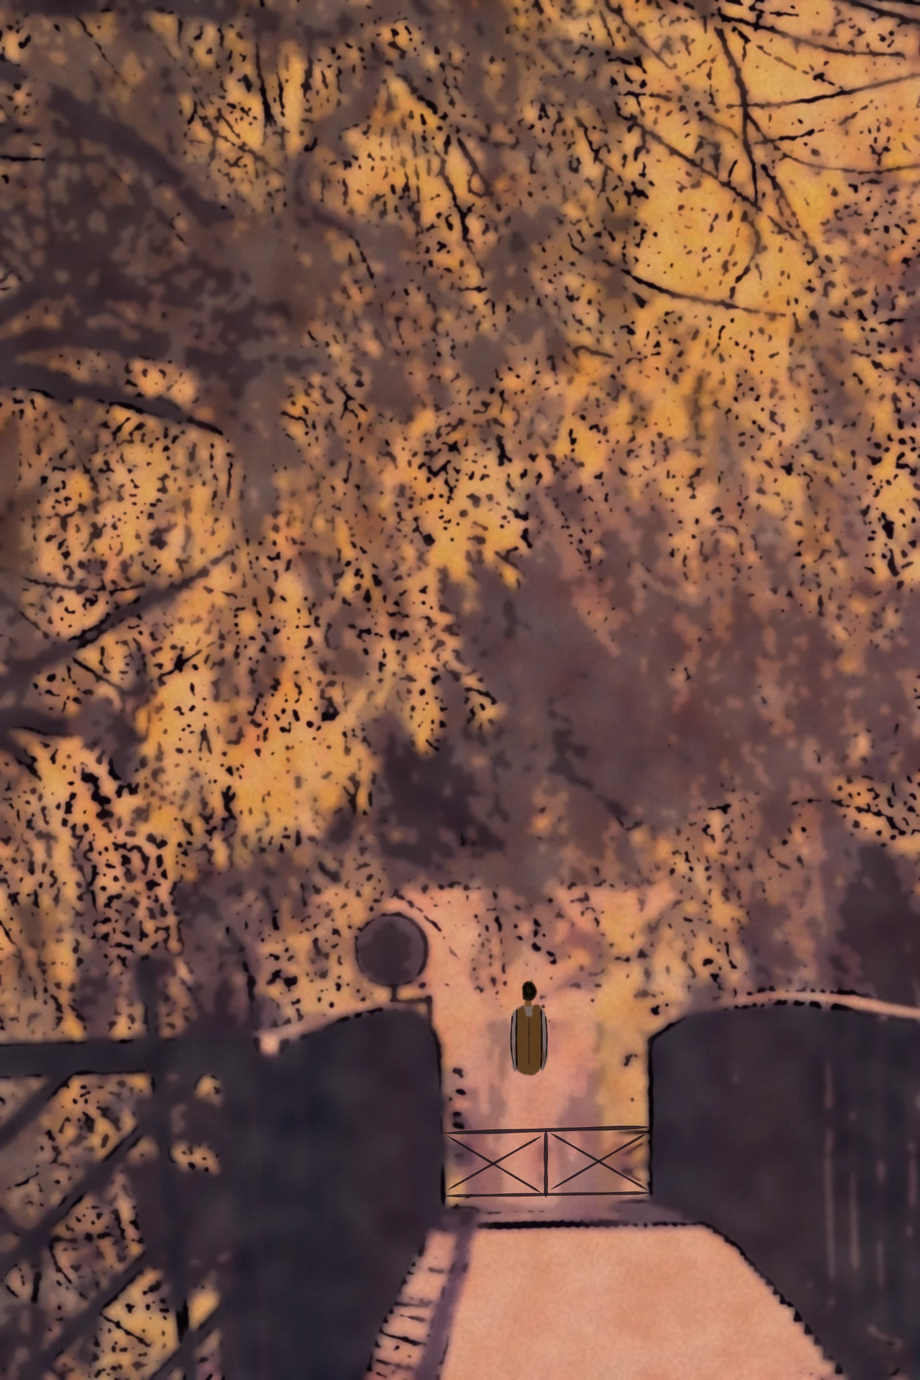
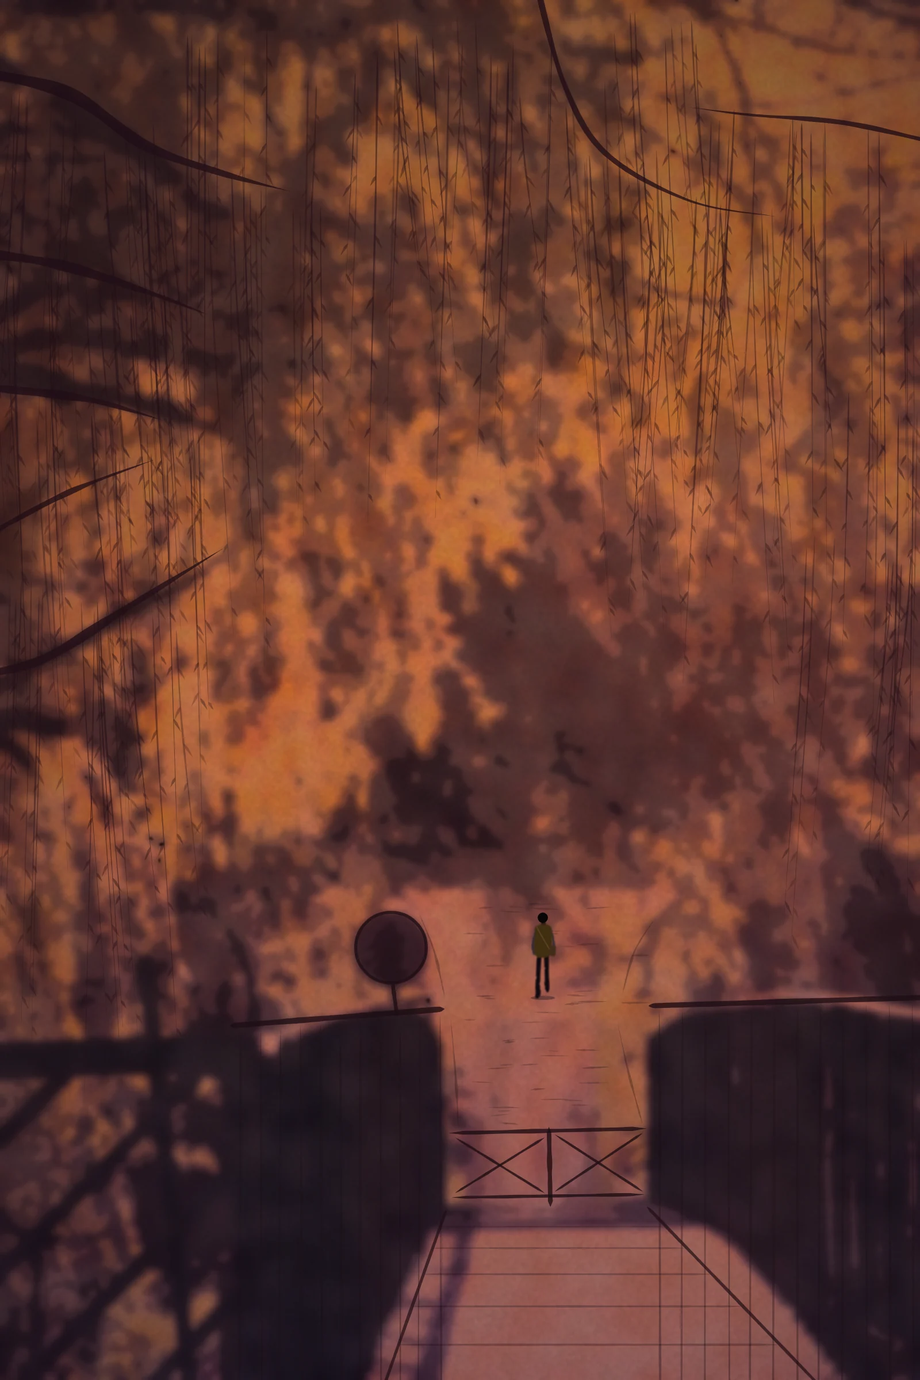
Darshan jouable : décors du départ et des toiles, versions finales
Le plan « loin » du départ passe en lavis du soir sans traits, la nuit au
bord du fleuve garde un papier à peine grené, les toiles sont retouchées.

Claude-Session: https://claude.ai/code/session_01TCXcaRJLaw3PQyFLimBr36

diff --git a/outils/darshan/art.py b/outils/darshan/art.py
@@ -1735,7 +1735,7 @@ def toiles(calque=None, graine=91):
            f'<rect width="{W}" height="{H}" fill="#eee6d6" filter="url(#papier)" opacity="0.4"/>']
     for nom, boite in TOILES:
         out.append(toile_de_lin(*boite, rng))
-        out.append(sujet(nom, boite, rng))
+        out.append(f'<g clip-path="url(#toile-{nom})">{sujet(nom, boite, rng)}</g>')
     x0, y0, x1, y1 = TOILE_COUPLE
     out.append(toile_de_lin(x0, y0, x1, y1, rng))
     out.append(f'<g clip-path="url(#toile-couple)">{couple(rng)}</g>')
@@ -1753,7 +1753,9 @@ def toiles(calque=None, graine=91):
     out.append(f'<path d="{trait([(600, 984), (599, 1000 - 72)], 2.6, rng, 0.02, 0.05, 0.05)}" fill="#6a3a1a"/>')
     out.append(f'<circle cx="599" cy="928" r="3.2" fill="#ff7a2a"/>')
     out.append(f'<rect width="{W}" height="{H}" fill="url(#lumiere-toiles)"/>')
-    defs = DEFS_AQUARELLE + FILTRE_ENCRE + f'<clipPath id="toile-couple"><rect x="{x0}" y="{y0}" width="{x1 - x0}" height="{y1 - y0}"/></clipPath>' + """
+    defs = DEFS_AQUARELLE + FILTRE_ENCRE + "".join(
+        f'<clipPath id="toile-{nom}"><rect x="{bx0}" y="{by0}" width="{bx1 - bx0}" height="{by1 - by0}"/></clipPath>'
+        for nom, (bx0, by0, bx1, by1) in TOILES + [("couple", TOILE_COUPLE)]) + """
 <linearGradient id="mur-toiles" x1="0" y1="0" x2="1" y2="0.3">
   <stop offset="0" stop-color="#f7f1e4"/><stop offset="1" stop-color="#ddd3c0"/>
 </linearGradient>
@@ -1894,86 +1896,236 @@ def placard(etat="entrouverte", graine=97):
 
 # ---------------------------------------------------------------- 7.6 : le départ de Darshan
 
-def silhouette_de_dos(x, y, s, rng, encre=ENCRE, gilet="#b88a2e", chemise="#e8e0cc", lueur=None, marche=False):
-    """Darshan de dos, une silhouette d'encre sans visage : les boucles brunes, la chemise de lin
-    blanc, le gilet de toile sans manches ; (x, y) : le haut de la tête ; s : l'échelle (1 : 1 000
-    unités de la tête à la taille) ; lueur : la couleur du feu qui l'éclaire d'en bas, à gauche."""
-    def P(dx, dy):
-        return (x + dx * s, y + dy * s)
+def darshan_proche(rng, cx=800, y0=150, k=1.1):
+    """Darshan debout, de dos, tout près : les boucles brunes, la nuque, le col de la chemise de lin
+    blanc, le gilet de toile moutarde, les manches ; coupé par le cadre à droite et en bas. Une
+    silhouette d'encre, sans visage : chaque forme a sa couleur, puis la lumière la multiplie, celle
+    du feu, hors champ en bas à gauche, qui monte sur le gilet, et la nuit bleue ailleurs ; un
+    liseré de feu sur les contours de gauche. (cx, y0) : le haut de la tête ; k : l'échelle."""
+    def P(x, y):
+        return (cx + x * k, y0 + (y - 190) * k)
 
-    def forme(pts, couleur, op=1.0, filtre="aquarelle-douce"):
-        return lavis(poly(catmull_rom([P(*q) for q in pts] + [P(*pts[0])], 6)), couleur, op, filtre)
-
-    out = []
-    # les bras (les manches de la chemise), puis le dos : le gilet par-dessus la chemise
-    for c in (-1, 1):
-        bras = [(c * 150, 250), (c * 205, 330), (c * 222, 560), (c * 214, 800), (c * 176, 1000),
-                (c * 140, 1000), (c * 150, 800), (c * 150, 560), (c * 120, 340)]
-        if marche:
-            bras = [(bx + c * 10 * (by > 600), by) for bx, by in bras]
-        out.append(forme(bras, chemise, 1.0))
-        out.append(f'<path d="{trait([P(c * 205, 330), P(c * 222, 560), P(c * 214, 800), P(c * 176, 1000)], 5 * s + 1.5, rng, 0.05, 0.3, 0.3)}" fill="{encre}" opacity="0.75"/>')
-    dos = [(-150, 250), (-60, 200), (60, 200), (150, 250), (158, 600), (150, 1000), (-150, 1000), (-158, 600)]
-    out.append(forme(dos, chemise, 1.0))
-    gilet_ = [(-148, 262), (-52, 212), (-40, 330), (40, 330), (52, 212), (148, 262), (150, 980), (-150, 980)]
-    out.append(forme(gilet_, gilet, 1.0))
-    out.append(f'<path d="{trait([P(0, 330), P(2, 620), P(0, 960)], 3 * s + 1, rng, 0.1, 0.1, 0.3)}" fill="{encre}" opacity="0.5"/>')
-    for pts in (((-150, 250), (-158, 600), (-150, 1000)), ((150, 250), (158, 600), (150, 1000))):
-        out.append(f'<path d="{trait([P(*q) for q in pts], 6 * s + 1.5, rng, 0.05, 0.1, 0.3)}" fill="{encre}" opacity="0.85"/>')
-    # le cou, le col, la tête : des boucles brunes, jamais de visage
-    out.append(forme([(-34, 120), (34, 120), (40, 214), (-40, 214)], "#8a5a3a", 1.0))
-    out.append(forme([(-62, 200), (0, 232), (62, 200), (40, 250), (-40, 250)], chemise, 1.0))
-    out.append(forme([(-86, 60), (-80, -30), (-40, -86), (30, -90), (78, -40), (90, 40), (70, 120), (0, 150), (-66, 124)], "#2a1a12", 1.0))
-    for _ in range(int(40 + 30 * s)):
+    def forme(pts, n=6):
+        return poly(catmull_rom([P(*q) for q in pts] + [P(*pts[0])], n))
+    tete = [(-115, 330), (-108, 262), (-70, 212), (0, 192), (72, 210), (112, 258), (120, 330), (112, 398), (88, 446),
+            (42, 468), (0, 472), (-44, 468), (-88, 446), (-110, 398)]
+    cou = [(-80, 420), (72, 420), (82, 470), (92, 560), (-92, 560), (-82, 470)]
+    col = [(-88, 505), (-30, 522), (30, 524), (86, 505), (96, 542), (30, 560), (-30, 560), (-96, 542)]
+    chemise = [(-90, 520), (-170, 545), (-250, 570), (-300, 588), (-334, 618), (-352, 680), (-360, 780), (-358, 900),
+               (-352, 1050), (-354, 1250), (-362, 1500), (-368, 1900), (368, 1900), (362, 1500), (354, 1250), (352, 1050),
+               (358, 900), (360, 780), (352, 680), (334, 618), (300, 588), (250, 570), (170, 545), (90, 520)]
+    gilet = [(-86, 550), (0, 560), (86, 550), (150, 558), (212, 576), (226, 650), (230, 760), (262, 812), (268, 1900),
+             (-268, 1900), (-262, 812), (-230, 760), (-226, 650), (-212, 576), (-150, 558)]
+    oreilles = [[(-108, 318), (-130, 334), (-134, 366), (-120, 392), (-104, 388)],
+                [(114, 318), (136, 334), (140, 366), (126, 392), (110, 388)]]
+    silhouette = "".join(f'<path d="{forme(f)}"/>' for f in (chemise, cou, tete))
+    out = [f'<clipPath id="darshan-proche">{silhouette}</clipPath>', '<g style="isolation:isolate">',
+           lavis(forme(chemise), "#e6ddc8", 1.0, "aquarelle-douce"),
+           lavis(forme(gilet), "#c8962a", 1.0, "aquarelle"),
+           lavis(forme(cou), "#7a4a30", 1.0, "aquarelle-douce")]
+    out += [lavis(forme(o, 4), "#7a4a30", 1.0, "aquarelle-douce") for o in oreilles]
+    out.append(lavis(forme(col), "#f2ecdc", 1.0, "aquarelle-douce"))
+    # les plis de la chemise et du gilet : l'aisselle, la manche, la couture du dos, la martingale
+    for pts, l, op in ((((-262, 812), (-268, 1100), (-270, 1400)), 4, 0.5), (((262, 812), (268, 1100), (270, 1400)), 4, 0.5),
+                       (((-336, 640), (-318, 720), (-300, 800)), 3, 0.35), (((336, 640), (318, 720), (300, 800)), 3, 0.35),
+                       (((-350, 900), (-330, 1000), (-322, 1150)), 2.4, 0.3), (((340, 920), (322, 1020), (318, 1160)), 2.4, 0.3),
+                       (((0, 562), (2, 900), (0, 1300), (2, 1900)), 3, 0.45), (((-212, 576), (-226, 650), (-230, 760), (-262, 812)), 3.4, 0.55),
+                       (((212, 576), (226, 650), (230, 760), (262, 812)), 3.4, 0.55)):
+        out.append(f'<path d="{trait([P(*q) for q in pts], l * k, rng, 0.1, 0.3, 0.3)}" fill="#3a2410" opacity="{op}"/>')
+    out.append(lavis(forme([(-226, 1296), (226, 1296), (226, 1346), (-226, 1346)], 2), "#a07420", 1.0, "aquarelle-douce"))
+    out.append(f'<path d="{trait([P(-226, 1296), P(-80, 1296), P(80, 1296), P(226, 1296)], 2.4 * k, rng, 0.02, 0.02, 0.2)}" fill="#3a2410" opacity="0.6"/>')
+    bx, by = P(-18, 1300)
+    out.append(f'<rect x="{bx:.1f}" y="{by:.1f}" width="{36 * k:.1f}" height="{42 * k:.1f}" rx="4" fill="none" stroke="#6a5030" stroke-width="{4 * k:.1f}"/>')
+    # la tête : une masse de boucles serrées, jamais de visage
+    out.append(lavis(forme(tete), "#1c1412", 1.0, "aquarelle"))
+    # la lumière : le feu, en bas à gauche, qui monte ; la nuit bleue en haut et à droite
+    out.append('<rect width="1200" height="1800" fill="url(#feu-monte)" clip-path="url(#darshan-proche)" style="mix-blend-mode:multiply"/>')
+    out.append('<rect width="1200" height="1800" fill="url(#feu-cote)" clip-path="url(#darshan-proche)" style="mix-blend-mode:multiply"/>')
+    out.append('</g>')
+    # les boucles, que la nuit éclaire à peine (bleutées), le feu un peu à gauche
+    for _ in range(150):
         a = rng.uniform(0, 2 * math.pi)
-        r = rng.uniform(0.4, 1.0)
-        cx, cy = 0 + 80 * r * math.cos(a), 20 + 100 * r * math.sin(a)
-        boucle = [P(cx + 12 * math.cos(b), cy + 12 * math.sin(b)) for b in [a + k * 0.9 for k in range(7)]]
-        out.append(f'<path d="{trait(boucle, 3 * s + 1, rng, 0.2, 0.3, 0.3)}" fill="#0a0604" opacity="0.7"/>')
-    if lueur:
-        out.append(f'<g style="mix-blend-mode:screen">{forme(dos + [(-150, 1000)], lueur, 0.0)}</g>')
+        r = math.sqrt(rng.uniform(0.0, 1.0))
+        x, y = 2 + 104 * r * math.cos(a), 330 + 128 * r * math.sin(a)
+        rb = rng.uniform(7, 13)
+        b0 = rng.uniform(0, 2 * math.pi)
+        boucle = [P(x + rb * math.cos(b0 + i * 0.8), y + rb * math.sin(b0 + i * 0.8)) for i in range(rng.randint(4, 6))]
+        feu = x < -50 and y > 330 and rng.random() < 0.6
+        out.append(f'<path d="{trait(boucle, rng.uniform(1.8, 2.8) * k, rng, 0.2, 0.4, 0.3)}" '
+                   f'fill="{"#5a321e" if feu else "#262434"}" opacity="{0.5 if feu else 0.45}"/>')
+    # le liseré du feu sur les contours de gauche, et un peu d'encre sur les autres
+    for pts, l, op in ((((-334, 618), (-352, 680), (-360, 780), (-358, 900), (-352, 1050), (-354, 1250), (-362, 1500)), 6, 0.8),
+                       (((-250, 570), (-300, 588), (-334, 618)), 4, 0.45),
+                       (((-110, 398), (-115, 330), (-108, 262)), 4, 0.35),
+                       (((-82, 470), (-90, 524)), 3, 0.4)):
+        out.append(f'<path d="{trait([P(*q) for q in pts], l * k, rng, 0.25, 0.35, 0.3)}" fill="#ffae5c" opacity="{op}" filter="url(#halo)"/>')
+    for pts, l in ((tete[1:9], 3.5), ([(90, 520), (170, 545), (250, 570), (300, 588), (334, 618), (352, 680), (360, 780)], 3)):
+        out.append(f'<path d="{trait([P(*q) for q in pts], l * k, rng, 0.05, 0.3, 0.35)}" fill="{ENCRE}" opacity="0.7"/>')
+    return "".join(out)
+
+
+def marcheur(x, y, h, rng, encre="#140c18"):
+    """Darshan au loin, de dos, qui s'éloigne : une petite silhouette d'encre en pied, sans visage
+    (x : son milieu, y : le sol sous ses pieds, h : sa hauteur), le pied droit qui se lève, le sac à
+    l'épaule, le gilet sur la chemise."""
+    s = h / 100.0
+
+    def P(dx, dy):
+        return (x + dx * s, y - dy * s)
+
+    def forme(pts, couleur):
+        return lavis(poly(catmull_rom([P(*q) for q in pts] + [P(*pts[0])], 4)), couleur, 1.0, "aquarelle-douce")
+    out = [f'<ellipse cx="{x:.1f}" cy="{y + 1.5 * s:.1f}" rx="{15 * s:.1f}" ry="{2.6 * s:.1f}" fill="{encre}" opacity="0.35"/>',
+           forme([(-7.5, 52), (-2, 52), (-3.2, 26), (-4, 1), (-9.5, 0.5), (-8.6, 26)], encre),
+           forme([(1.5, 52), (7, 52), (7.5, 28), (8.2, 9), (3.4, 7), (2.4, 28)], encre),
+           forme([(-10, 85), (-13.5, 70), (-12.5, 54), (-9.8, 54), (-10, 70), (-7.5, 82)], "#3a3448"),
+           forme([(10, 85), (13.5, 71), (15.5, 56), (12.8, 55.5), (11, 70), (7.5, 82)], "#3a3448"),
+           forme([(-10.5, 86), (-4, 90), (4, 90), (10.5, 86), (11, 70), (9, 50), (-9, 50), (-11, 70)], "#4a3818"),
+           forme([(-2.8, 90), (2.8, 90), (2.4, 95), (-2.4, 95)], "#2a1a14"),
+           f'<circle cx="{P(0, 99)[0]:.1f}" cy="{P(0, 99)[1]:.1f}" r="{6.4 * s:.1f}" fill="#0b0809"/>',
+           f'<path d="{trait([P(-8, 88), P(1, 72), P(10, 57)], 1.6 * s, rng, 0.05, 0.05, 0.1)}" fill="#6a4a2a"/>',
+           forme([(8.5, 63), (15.5, 62), (16, 51), (9, 51.5)], "#4a3620")]
+    return "".join(out)
+
+
+def saules(rng, encre="#2a1420"):
+    """Les saules pleureurs de la passerelle, retracés à l'encre sur le lavis du modèle : quelques
+    grosses branches, et les rameaux qui pendent, plus denses en haut et sur les côtés, jamais
+    devant le chemin du fond."""
+    out = []
+    for pts, l in (([(-20, 95), (90, 122), (190, 190), (290, 226), (380, 250)], 15),
+                   ([(-20, 330), (80, 346), (190, 380), (270, 410)], 12),
+                   ([(-20, 505), (110, 520), (212, 548)], 10),
+                   ([(-20, 880), (60, 858), (170, 790), (290, 716)], 11),
+                   ([(-20, 700), (90, 642), (200, 600)], 7),
+                   ([(700, -20), (736, 110), (790, 200), (900, 262), (1010, 282)], 7),
+                   ([(1220, 186), (1100, 160), (980, 150), (900, 140)], 6)):
+        out.append(f'<path d="{trait(pts, l, rng, 0.02, 0.5, 0.2)}" fill="{encre}" opacity="0.8"/>')
+    # les rameaux, en rideaux pendus aux branches et au haut du cadre ; leurs feuilles étroites
+    ancrages = [(40, 120), (150, 170), (260, 220), (360, 250), (60, 340), (180, 380), (100, 520), (200, 560),
+                (460, 80), (560, 30), (650, 50), (740, 110), (800, 200), (900, 262), (1000, 282), (1100, 160),
+                (980, 150), (1180, 300), (1160, 520), (60, 760), (170, 790), (1120, 700), (300, 40), (860, 20)]
+    for ax, ay in ancrages:
+        balance = rng.uniform(-36, 36)
+        for _ in range(rng.randint(6, 10)):
+            x = ax + rng.uniform(-70, 70)
+            y0 = ay + rng.uniform(-10, 40)
+            longueur = rng.uniform(240, 640)
+            if 470 < x < 930:
+                longueur = min(longueur, max(140, 1060 - y0))
+            pts = [(x, y0), (x + balance * 0.2, y0 + longueur * 0.3), (x + balance * 0.6, y0 + longueur * 0.65),
+                   (x + balance, y0 + longueur)]
+            op = rng.uniform(0.25, 0.55)
+            out.append(f'<path d="{trait(pts, rng.uniform(1.2, 2.6), rng, 0.05, 0.7, 0.3)}" fill="{encre}" opacity="{op:.2f}"/>')
+            c = catmull_rom(pts, 8)
+            for i in range(4, len(c) - 1, 3):
+                (xa, ya), (xb, yb) = c[i], c[i + 1]
+                ang = math.atan2(yb - ya, xb - xa) + (0.5 if i % 2 else -0.5)
+                lg = rng.uniform(12, 22)
+                out.append(f'<path d="{trait([(xa, ya), (xa + lg * math.cos(ang), ya + lg * math.sin(ang))], 3.6, rng, 0.3, 0.6, 0.1)}" '
+                           f'fill="{encre}" opacity="{op * 0.8:.2f}"/>')
     return "".join(out)
 
 
 def depart(plan="proche", modele=None, image=None, graine=103):
     """7.6 : « proche » : Darshan de dos, tout près, debout près du feu, coupé par le cadre, la
     lueur du feu sur son gilet ; une silhouette d'encre, sans modèle, jamais de visage ; derrière lui,
-    le fleuve du soir. « loin » : la passerelle et les saules de 36652487, au soir, passés à l'encre
-    (image, préparée par decors.py, l'homme de la photo effacé) ; la barrière retracée ; Darshan,
-    petite silhouette d'encre qui s'éloigne sur le chemin."""
+    le Periyar le soir, l'autre rive et ses cocotiers. « loin » : la passerelle et les saules de
+    36652487, au soir, dessinés d'après le modèle (image : son lavis du soir, préparé par decors.py,
+    l'homme de la photo effacé) ; la barrière et le chemin retracés à l'encre ; Darshan, petite
+    silhouette d'encre qui s'éloigne sur le chemin, au-delà de la barrière. Tout ce qui compte tient
+    au-dessus du panneau de texte (y 1 330)."""
     rng = random.Random(graine)
     if plan == "loin":
-        out = [photo_svg(image)]
-        # la barrière du bout de la passerelle, retracée à l'encre là où la photo est effacée
-        for pts, l_ in ((((578, 1478), (850, 1470)), 5), (((578, 1560), (850, 1556)), 4), (((712, 1474), (712, 1562)), 5),
-                        (((584, 1482), (706, 1556)), 3), (((584, 1552), (706, 1482)), 3), (((718, 1478), (844, 1552)), 3),
-                        (((718, 1552), (844, 1478)), 3)):
-            out.append(f'<path d="{trait(list(pts), l_, rng, 0.05, 0.05, 0.2)}" fill="#1a1422" opacity="0.8"/>')
-        out.append(silhouette_de_dos(690, 1290, 0.105, rng, encre="#120c18", gilet="#6a4a2a", chemise="#8a7a86", marche=True))
-        return svg("".join(out), DEFS_AQUARELLE, "#2a1a2a")
+        encre = "#22101c"
+        out = [photo_svg(image), saules(rng)]
+        # les garde-corps de la passerelle : la main courante, les montants
+        for x0, y0, x1, y1, pas in ((300, 1338, 580, 1316, 26), (846, 1312, 1240, 1300, 30)):
+            out.append(f'<path d="{trait(droit([(x0, y0), (x1, y1)]), 7, rng, 0.02, 0.02, 0.1)}" fill="{encre}" opacity="0.8"/>')
+            for xx in range(x0 + 14, x1, pas):
+                yy = y0 + (y1 - y0) * (xx - x0) / (x1 - x0)
+                out.append(f'<path d="{trait([(xx, yy + 8), (xx + rng.uniform(-3, 3), 1850)], rng.uniform(1.6, 2.8), rng, 0.02, 0.02, 0.2)}" '
+                           f'fill="{encre}" opacity="0.35"/>')
+        # le tablier : ses bords, son caillebotis
+        out.append(f'<path d="{trait(droit([(582, 1578), (486, 1850)]), 4, rng, 0.02, 0.02, 0.1)}" fill="{encre}" opacity="0.7"/>')
+        out.append(f'<path d="{trait(droit([(844, 1574), (1110, 1850)]), 4, rng, 0.02, 0.02, 0.1)}" fill="{encre}" opacity="0.7"/>')
+        for k, y in enumerate((1600, 1628, 1662, 1704, 1754, 1812)):
+            t = (y - 1576) / 274
+            out.append(f'<path d="{trait(droit([(582 - 96 * t, y), (844 + 266 * t, y)]), 1.6 + k * 0.3, rng, 0.05, 0.05, 0.2)}" '
+                       f'fill="{encre}" opacity="0.28"/>')
+        # le chemin au-delà de la barrière, qui monte sous les saules : ses bords, sa terre
+        for pts in (((598, 1470), (594, 1400), (588, 1330)), ((580, 1300), (566, 1240), (546, 1190)),
+                    ((838, 1466), (820, 1400), (806, 1336)), ((812, 1296), (828, 1240), (856, 1196))):
+            out.append(f'<path d="{trait(list(pts), 2.6, rng, 0.3, 0.5, 0.5)}" fill="{encre}" opacity="0.3"/>')
+        for _ in range(46):
+            y = rng.uniform(1170, 1468)
+            t = (1470 - y) / 300
+            xa = 600 - 60 * t * t + rng.uniform(0, 40)
+            xb = 840 + 30 * t * t - rng.uniform(0, 40)
+            x = rng.uniform(xa, xb - 30)
+            out.append(f'<path d="{trait([(x, y), (x + rng.uniform(14, 40), y + rng.uniform(-2, 2))], rng.uniform(1.2, 2.6), rng, 0.3, 0.4, 0.3)}" '
+                       f'fill="{encre}" opacity="{rng.uniform(0.15, 0.3):.2f}"/>')
+        # le panneau rond sur son poteau, à gauche du chemin
+        out.append(f'<circle cx="510" cy="1236" r="46" fill="{encre}" opacity="0.35" filter="url(#aquarelle-douce)"/>')
+        out.append(f'<circle cx="510" cy="1236" r="46" fill="none" stroke="{encre}" stroke-width="4" opacity="0.8"/>')
+        out.append(f'<path d="{trait([(512, 1282), (518, 1326)], 5, rng, 0.02, 0.02, 0.1)}" fill="{encre}" opacity="0.8"/>')
+        # Darshan, au loin, sur le chemin
+        out.append(marcheur(708, 1300, 104, rng))
+        # la barrière du bout de la passerelle
+        for pts, l_ in ((((586, 1478), (843, 1472)), 5), (((590, 1562), (840, 1558)), 4), (((716, 1470), (718, 1574)), 6),
+                        (((594, 1484), (710, 1556)), 3), (((594, 1556), (710, 1484)), 3), (((724, 1480), (838, 1554)), 3),
+                        (((724, 1554), (838, 1478)), 3)):
+            out.append(f'<path d="{trait(list(pts), l_, rng, 0.05, 0.05, 0.2)}" fill="{encre}" opacity="0.8"/>')
+        out.append(f'<rect width="{W}" height="{H}" fill="url(#soir-bords)"/>')
+        defs = DEFS_AQUARELLE + """
+<radialGradient id="soir-bords" cx="0.56" cy="0.66" r="0.78">
+  <stop offset="0.45" stop-color="#1a0c1c" stop-opacity="0"/><stop offset="1" stop-color="#1a0c1c" stop-opacity="0.45"/>
+</radialGradient>"""
+        return svg("".join(out), defs, "#2a1a2a")
+    # proche : le fleuve le soir, derrière lui
     out = [f'<rect width="{W}" height="{H}" fill="url(#soir-fleuve)"/>']
-    out.append(lavis(poly([(-40, 980), (1240, 950), (1240, 1100), (-40, 1120)]), "#1a1c34", 0.95, "aquarelle-douce"))
-    for x in (-40, 180, 420, 880, 1100):
-        out.append(f'<g opacity="0.8">{palmier(x, 1000, rng.uniform(260, 420), rng, "#07080f", "#141a24")}</g>')
-    out.append(lavis(poly([(-40, 1100), (1240, 1080), (1240, 1850), (-40, 1850)]), "#23233a", 1.0, "aquarelle-douce"))
-    for k in range(10):
-        y = 1140 + k * 42
-        out.append(f'<path d="{trait([(-40, y), (600, y + rng.uniform(-6, 6)), (1240, y)], rng.uniform(2, 5), rng, 0.3, 0.3, 0.4)}" fill="#e89a5a" opacity="{0.08 + k * 0.012:.3f}"/>')
-    out.append(silhouette_de_dos(640, 360, 1.0, rng))
-    out.append(f'<rect width="{W}" height="{H}" fill="url(#feu-dos)" style="mix-blend-mode:screen"/>')
+    for _ in range(40):
+        x, y = rng.uniform(0, W), rng.uniform(0, 520)
+        out.append(f'<circle cx="{x:.1f}" cy="{y:.1f}" r="{rng.uniform(0.8, 1.8):.1f}" fill="#f4e6c8" opacity="{rng.uniform(0.3, 0.8):.2f}"/>')
+    out.append(lavis(poly([(-40, 842), (200, 830), (520, 838), (900, 826), (1240, 834), (1240, 900), (-40, 904)]), "#0b0c18", 1.0, "aquarelle-douce"))
+    for x, h in ((-30, 330), (90, 420), (250, 300), (420, 380), (960, 360), (1150, 410)):
+        out.append(palmier(x, 846, h, rng, "#07070f", "#0e1220"))
+    out.append(lavis(poly([(-40, 896), (1240, 890), (1240, 1250), (-40, 1260)]), "#141628", 1.0, "aquarelle-douce"))
+    for k in range(14):
+        y = 910 + k * 24
+        xa = rng.uniform(40, 200)
+        out.append(f'<path d="{trait([(xa, y), (xa + rng.uniform(80, 260), y + rng.uniform(-3, 3))], rng.uniform(2, 5), rng, 0.3, 0.3, 0.4)}" '
+                   f'fill="#ff9a50" opacity="{0.12 + k * 0.022:.3f}"/>')
+    out.append(lavis(poly([(-40, 1240), (1240, 1230), (1240, 1860), (-40, 1860)]), "#1a120e", 1.0, "aquarelle-douce"))
+    # des étincelles qui montent du feu, hors champ en bas à gauche
+    for _ in range(26):
+        x, y = rng.uniform(20, 380), rng.uniform(640, 1700)
+        r = rng.uniform(1.6, 3.4)
+        out.append(f'<circle cx="{x:.1f}" cy="{y:.1f}" r="{r * 2.6:.1f}" fill="#ff8a30" opacity="0.25" filter="url(#halo)"/>')
+        out.append(f'<circle cx="{x:.1f}" cy="{y:.1f}" r="{r:.1f}" fill="#ffd08a" opacity="{rng.uniform(0.6, 0.95):.2f}"/>')
+    out.append(f'<rect width="{W}" height="{H}" fill="url(#feu-sol)" style="mix-blend-mode:screen"/>')
+    out.append(darshan_proche(rng))
     out.append(f'<rect width="{W}" height="{H}" fill="url(#nuit-bords)"/>')
-    defs = DEFS_AQUARELLE + """
+    defs = DEFS_AQUARELLE + FILTRE_ENCRE + """
 <linearGradient id="soir-fleuve" x1="0" y1="0" x2="0" y2="1">
-  <stop offset="0" stop-color="#0e1026"/><stop offset="0.5" stop-color="#2a2244"/><stop offset="0.62" stop-color="#5a3a4a"/>
+  <stop offset="0" stop-color="#0b0d22"/><stop offset="0.3" stop-color="#1c1a3a"/><stop offset="0.47" stop-color="#4a3048"/>
+  <stop offset="0.5" stop-color="#2a1e30"/>
 </linearGradient>
-<radialGradient id="feu-dos" gradientUnits="userSpaceOnUse" cx="360" cy="1900" r="1250">
-  <stop offset="0" stop-color="#ff8a3c" stop-opacity="0.75"/><stop offset="0.5" stop-color="#c24a1c" stop-opacity="0.25"/>
+<radialGradient id="feu-sol" gradientUnits="userSpaceOnUse" cx="120" cy="1880" r="1100">
+  <stop offset="0" stop-color="#ff8a3c" stop-opacity="0.8"/><stop offset="0.45" stop-color="#c24a1c" stop-opacity="0.3"/>
   <stop offset="1" stop-color="#c24a1c" stop-opacity="0"/>
 </radialGradient>
-<radialGradient id="nuit-bords" cx="0.5" cy="0.45" r="0.8">
-  <stop offset="0.55" stop-color="#000" stop-opacity="0"/><stop offset="1" stop-color="#000" stop-opacity="0.5"/>
+<linearGradient id="feu-monte" gradientUnits="userSpaceOnUse" x1="0" y1="1800" x2="0" y2="150">
+  <stop offset="0" stop-color="#ffb46a"/><stop offset="0.36" stop-color="#c8704a"/><stop offset="0.6" stop-color="#6a4a5c"/>
+  <stop offset="0.8" stop-color="#2e2c44"/><stop offset="1" stop-color="#1e2034"/>
+</linearGradient>
+<linearGradient id="feu-cote" gradientUnits="userSpaceOnUse" x1="380" y1="0" x2="1200" y2="0">
+  <stop offset="0" stop-color="#ffffff"/><stop offset="1" stop-color="#7a82a0"/>
+</linearGradient>
+<radialGradient id="nuit-bords" cx="0.5" cy="0.42" r="0.85">
+  <stop offset="0.6" stop-color="#000" stop-opacity="0"/><stop offset="1" stop-color="#000" stop-opacity="0.45"/>
 </radialGradient>"""
-    return svg("".join(out), defs, "#0e1026")
+    return svg("".join(out), defs, "#0b0d22")
 
 
 # ---------------------------------------------------------------- 2.10 : l'esquisse du théâtre

diff --git a/outils/darshan/decors.py b/outils/darshan/decors.py
@@ -135,6 +135,7 @@ PAPIER_DESSIN = {
     "desert-nuit": 0.35,     # le velours noir de la nuit, à peine grené
     "desert-jour": 0.55,     # le ciel blanc de chaleur : le papier, sans ses auréoles
     "aluva": 0.45,           # le dessin du prototype, que Karl a vu : un papier plus discret
+    "depart-proche": 0.35,   # la nuit au bord du fleuve : à peine grenée
 }
 
 # Décors et calques enregistrés avec leur couche de transparence (WebP avec alpha).
@@ -693,15 +694,15 @@ def preparer_desert(d, dossier, nom):
 
 
 def preparer_depart(d, dossier, nom):
-    """depart, plan « loin » : la passerelle et les saules du modèle, passés à l'encre du soir ;
-    l'homme du modèle est effacé (le dessin le recouvre de la passerelle vide)."""
+    """depart, plan « loin » : la passerelle et les saules du modèle en lavis du soir, sans traits
+    (le dessin retrace à l'encre les saules, la barrière et le chemin) ; l'homme du modèle est effacé."""
     if d.get("plan") != "loin" or not d.get("modele"):
         return {}
     photo = recadrer(photo_pour(d["modele"]), 0.5, 0.5, 1.0)
-    photo = effacer_passant(photo)
+    photo = effacer_passant(photo).filter(ImageFilter.GaussianBlur(4))
     photo = crepuscule(photo)
-    im = encre(photo, part_traits=0.09, teinte=(34, 18, 44), tons=(112, 168, 214),
-               fond=Image.new("RGB", (W, H), (255, 255, 255)))
+    im = encre(photo, part_traits=0.0001, teinte=(34, 18, 44), tons=(112, 168, 214),
+               fond=degrade((236, 206, 178), (170, 150, 176), (226, 184, 170)))
     return {"image": fichier(im, dossier, f"{nom}-passerelle")}
 
 
